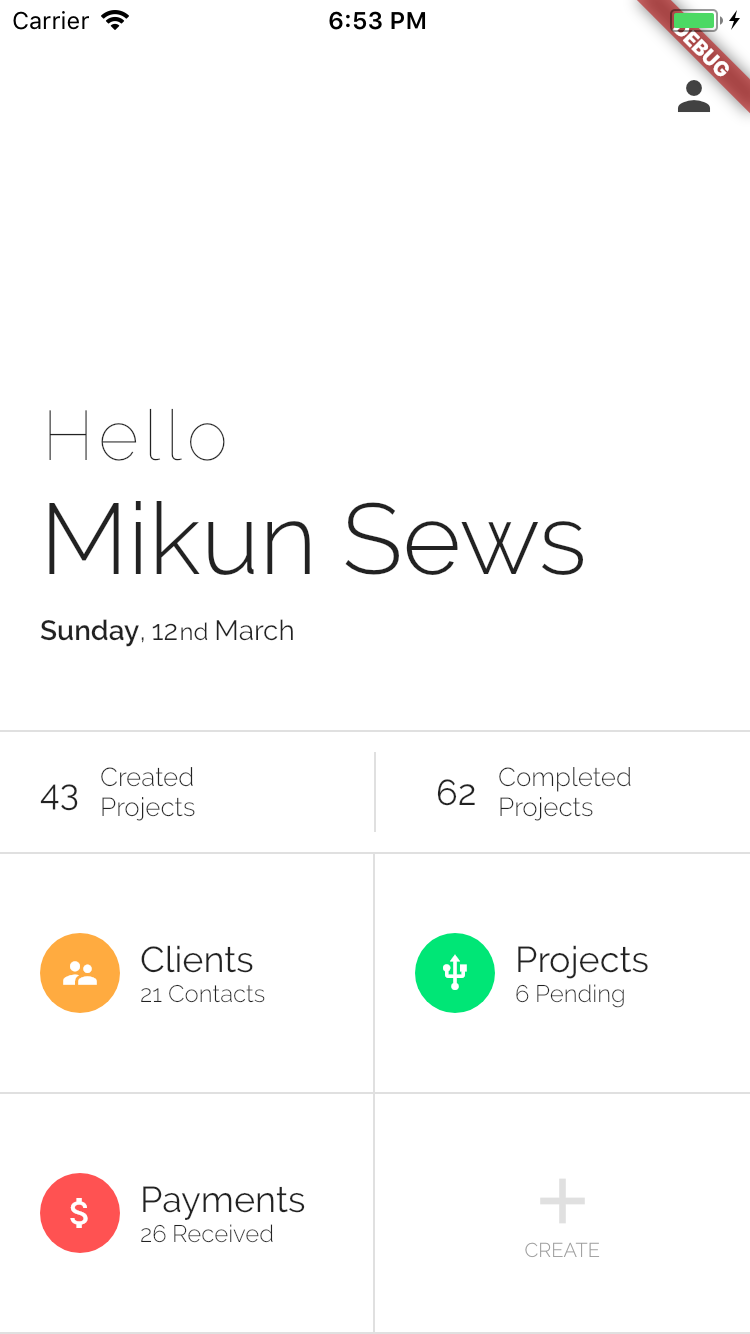
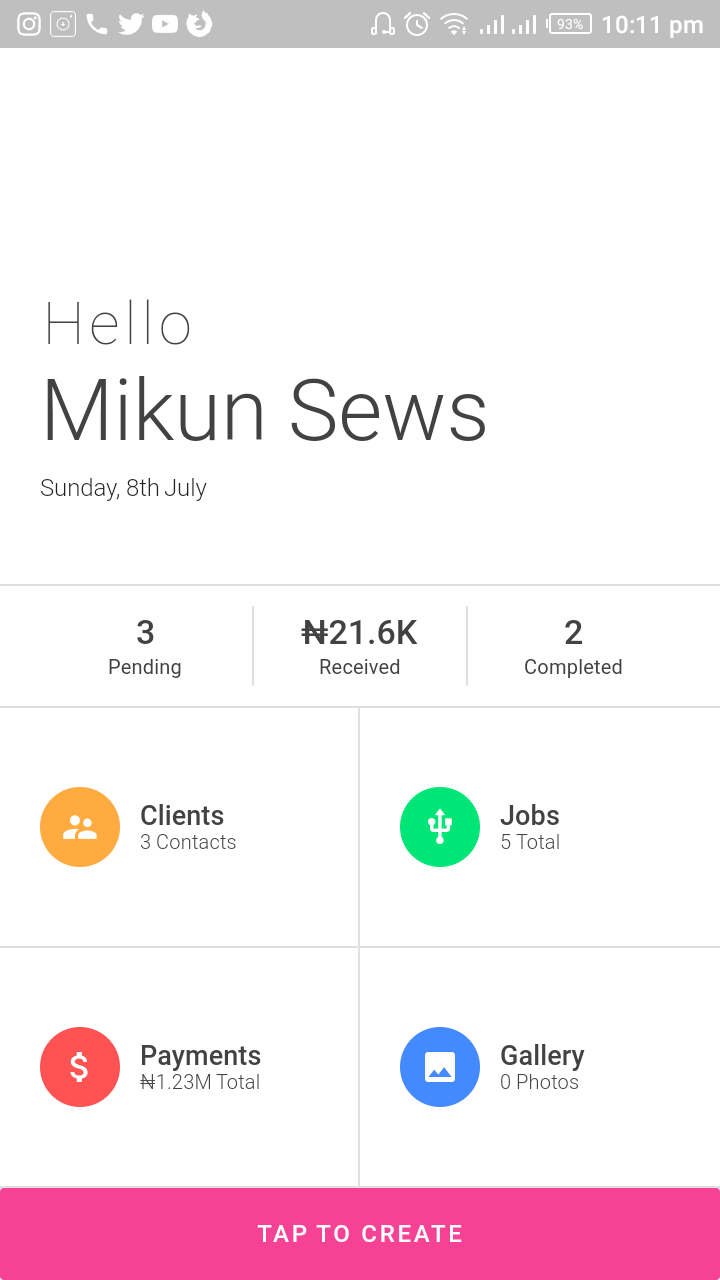
chore: screen shots (#35)
* chore: update screen shots

* chore: add pending tasks

diff --git a/README.md b/README.md
@@ -5,19 +5,50 @@ A Flutter experiment.
 ## UI Shots (so far)
 
 <div style="text-align: center">
-    <table>
-        <tr>
-            <td style="text-align: center">
-                <img src="./screenshots/ss01.png" width="200" />
-            </td>
-            <td style="text-align: center">
-                <img src="./screenshots/ss02.png" width="200" />
-            </td>
-            <td style="text-align: center">
-                <img src="./screenshots/ss03.png" width="200" />
-            </td>
-        </tr>
-    </table>
+  <table>
+    <tr>
+      <td style="text-align: center">
+        <img src="./screenshots/ss01.png" width="200" />
+      </td>
+      <td style="text-align: center">
+        <img src="./screenshots/ss02.png" width="200" />
+      </td>
+      <td style="text-align: center">
+        <img src="./screenshots/ss03.png" width="200" />
+      </td>
+      <td style="text-align: center">
+        <img src="./screenshots/ss04.png" width="200" />
+      </td>
+      <td style="text-align: center">
+        <img src="./screenshots/ss05.png" width="200" />
+      </td>
+    </tr>
+    <tr>
+      <td style="text-align: center">
+        <img src="./screenshots/ss06.png" width="200" />
+      </td>
+      <td style="text-align: center">
+        <img src="./screenshots/ss07.png" width="200" />
+      </td>
+      <td style="text-align: center">
+        <img src="./screenshots/ss08.png" width="200" />
+      </td>
+      <td style="text-align: center">
+        <img src="./screenshots/ss09.png" width="200" />
+      </td>
+      <td style="text-align: center">
+        <img src="./screenshots/ss10.png" width="200" />
+      </td>
+    </tr>
+    <tr>
+      <td style="text-align: center">
+        <img src="./screenshots/ss06.png" width="200" />
+      </td>
+      <td style="text-align: center">
+        <img src="./screenshots/ss07.png" width="200" />
+      </td>
+    </tr>
+  </table>
 </div>
 
 For help getting started with Flutter, view our online
